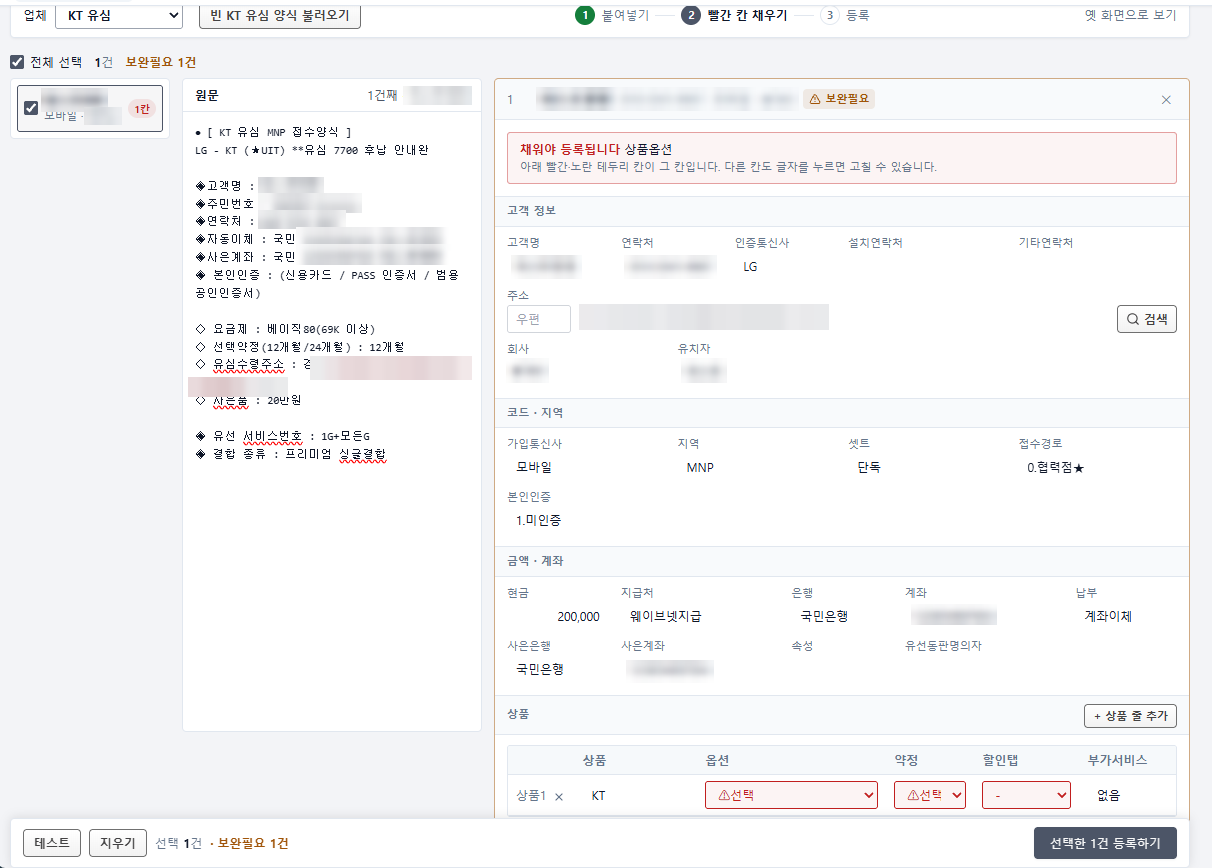
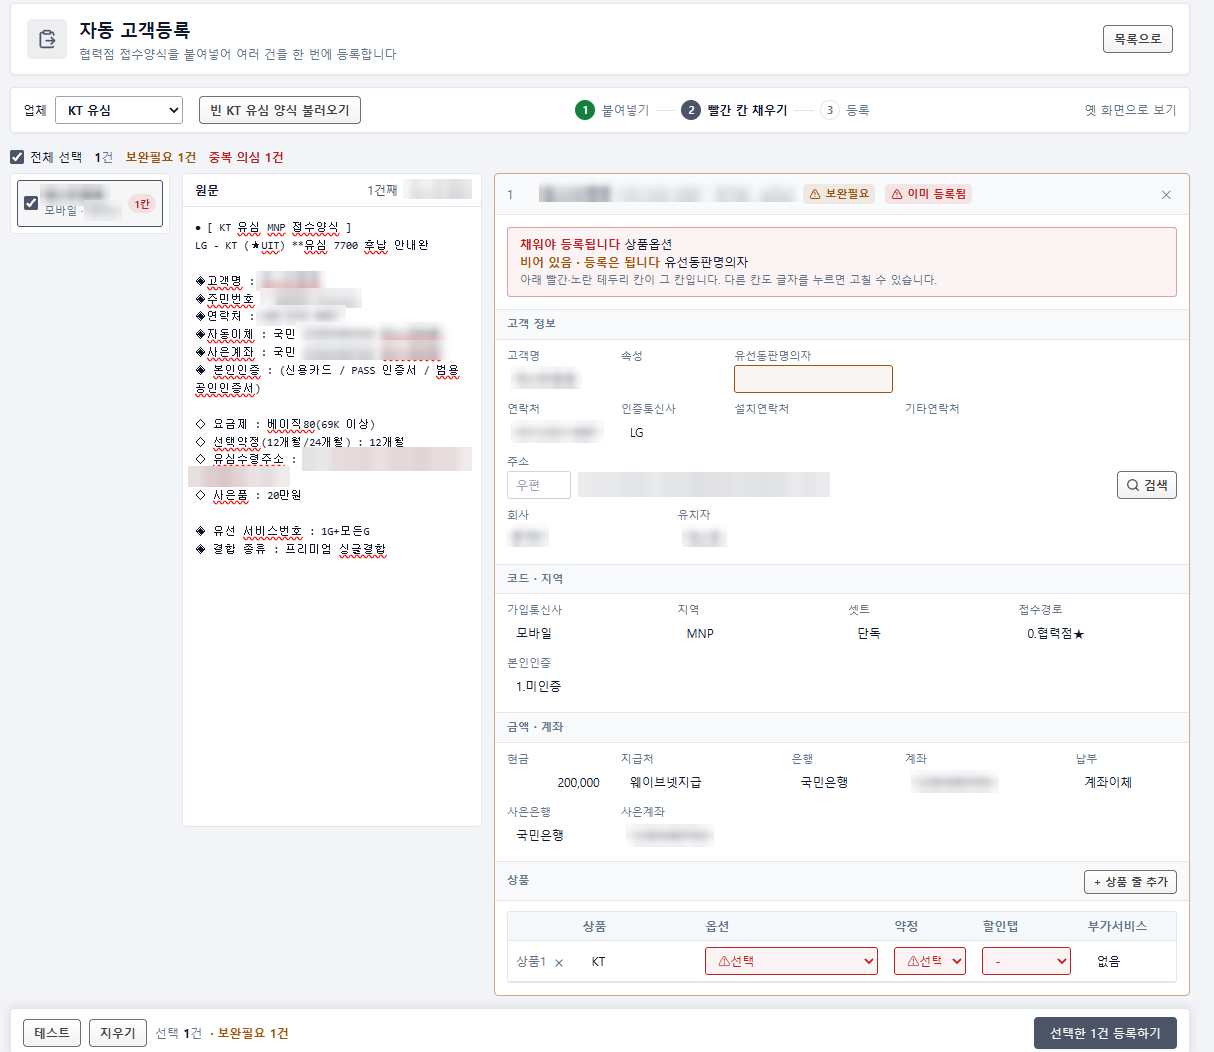
미리보기: 유심 검토 화면 새 캡처 교체, 유선동판 명의자 노란 칸 반영
- 새 캡처(개인정보 가림): 유선동판명의자가 고객명 옆 노란 칸, 채워야 등록됨/비어 있음·등록은 됨 안내
- 2단계 순서·캡처 설명·직접 넣는 칸 표·FAQ, 3단계 점검표 문구를 노란 칸 기준으로

Claude-Session: https://claude.ai/code/session_01U7bNvW3DExLcB2TdmBFNPf

diff --git a/preview/index.html b/preview/index.html
@@ -1199,24 +1199,24 @@ details.qa .a .where:hover{background:var(--brand-50); color:var(--brand-600);}
               <img class="popup" src="../assets/usim/usim-1-company.png" alt="업체 목록 — 유선, 유선+OSS, KT 유심, SKT 유심, SKB 유심, LG 유심" loading="lazy" width="337" height="366" style="max-width:240px"></div></li>
             <li><div>가운데 <b>원문 칸에 양식을 붙여넣습니다</b> <span class="kbd">Ctrl V</span>
               <span class="hint">양식이 없으면 <span class="ui ghost">빈 ○○ 유심 양식 불러오기</span>로 그 통신사 양식을 불러와 바로 채워도 됩니다</span></div></li>
-            <li><div>오른쪽 <b>유선동판 명의자</b>에 <b>유선 고객명</b>을 넣습니다
-              <span class="hint">고객명으로 유선 고객을 찾아 묶으니, 유선 등록 때 쓴 고객명과 <b>똑같이</b> 적어 주세요</span></div></li>
+            <li><div>고객 정보의 <b>유선동판 명의자</b>(고객명 옆 <span class="t" style="background:#fff4e6;color:#b45309;border:1px solid #d9a066">노란 테두리</span> 칸)에 <b>유선 고객명</b>을 넣습니다
+              <span class="hint">비어도 등록은 되지만, 고객명으로 유선 고객을 찾아 묶으니 유선 등록 때 쓴 고객명과 <b>똑같이</b> 꼭 적어 주세요</span></div></li>
             <li><div>상품 줄의 <b>옵션 · 약정 · 할인탭</b>을 고릅니다 <span class="hint">빨간 <b>⚠선택</b>으로 표시됩니다 — 아래 표 참고</span></div></li>
-            <li><div>그 밖에 <b>빨간 테두리 칸</b>이 있으면 채웁니다 <span class="hint">유선과 같은 방식입니다 · <a href="#" data-go="a2">빨간 · 노란 테두리 설명</a></span></div></li>
+            <li><div>그 밖에 <b>빨간 · 노란 테두리 칸</b>이 있으면 채웁니다 <span class="hint">유선과 같은 방식입니다 · <a href="#" data-go="a2">빨간 · 노란 테두리 설명</a></span></div></li>
           </ol>
         </div>
 
         <div class="sec">
-          <h2>이런 화면이에요 <small>KT 유심 — 옵션 · 약정 · 할인탭을 고르기 전</small></h2>
+          <h2>이런 화면이에요 <small>KT 유심 — 유선동판 명의자 · 옵션 · 약정 · 할인탭을 넣기 전</small></h2>
           <div class="shot-card">
             <div class="shot-bar"><i></i><i></i><i></i><span>자동 고객등록 — KT 유심</span><span class="zoom"><svg class="ic"><use href="#i-zoom"/></svg>누르면 크게</span></div>
-            <div class="shot"><img src="../assets/usim/usim-2-review.png" alt="유심 검토 화면 — 업체 KT 유심, 모바일 · MNP · 단독 자동, 채워야 등록됩니다 상품옵션, 유선동판명의자 칸, 옵션 · 약정 · 할인탭 선택" loading="lazy" width="1212" height="868"><span class="pin" style="left:15.3%;top:3.5%">1</span><span class="pin" style="left:51.2%;top:53.7%">2</span><span class="pin" style="left:94.9%;top:17.9%">3</span><span class="pin" style="left:79.2%;top:77.0%">4</span><span class="pin" style="left:56.9%;top:91.6%">5</span></div>
+            <div class="shot"><img src="../assets/usim/usim-2-review.png" alt="유심 검토 화면 — 업체 KT 유심, 채워야 등록됩니다 상품옵션 · 비어 있음 등록은 됩니다 유선동판명의자, 유선동판명의자 노란 칸, 모바일 · MNP · 단독 자동, 옵션 · 약정 · 할인탭 선택" loading="lazy" width="1214" height="1052"><span class="pin" style="left:15.7%;top:10.5%">1</span><span class="pin" style="left:51.1%;top:60.2%">2</span><span class="pin" style="left:94.7%;top:23.3%">3</span><span class="pin" style="left:75.0%;top:36.0%">4</span><span class="pin" style="left:56.8%;top:91.3%">5</span></div>
             <div class="shot-cap">
               <ol class="pins">
                 <li>업체 — <b>통신사 유심</b> 선택</li>
                 <li>자동으로 채워짐 — 가입통신사 <b>모바일</b> · 지역 <b>MNP</b> · 셋트 <b>단독</b></li>
-                <li><b>채워야 등록됩니다</b> — 아직 안 고른 칸을 알려줍니다 <span class="muted">(예: 상품옵션)</span></li>
-                <li><b>유선동판 명의자</b> — 유선 고객명을 직접 입력</li>
+                <li><b>채워야 등록됩니다</b>(빨간 칸) · <b>비어 있음 · 등록은 됩니다</b>(노란 칸)를 함께 알려줍니다 <span class="muted">(예: 상품옵션 / 유선동판명의자)</span></li>
+                <li><b>유선동판 명의자</b> — 노란 칸, 유선 고객명을 직접 입력</li>
                 <li>상품 줄 <b>옵션 · 약정 · 할인탭</b> — 직접 선택</li>
               </ol>
             </div>
@@ -1227,7 +1227,7 @@ details.qa .a .where:hover{background:var(--brand-50); color:var(--brand-600);}
           <h2>직접 넣는 칸</h2>
           <div class="rule">
             <div class="head"><span>칸</span><span>넣을 것</span></div>
-            <div><span class="if"><b>유선동판 명의자</b></span><span class="then">이미 등록한 <b>유선 고객의 고객명</b> <span class="muted">· 빨간 칸이 아니어도 꼭</span></span></div>
+            <div><span class="if"><b>유선동판 명의자</b></span><span class="then">이미 등록한 <b>유선 고객의 고객명</b> <span class="muted">· <span class="t" style="background:#fff4e6;color:#b45309;border:1px solid #d9a066">노란 테두리</span> — 비어도 등록은 되지만 꼭</span></span></div>
             <div><span class="if"><b>옵션</b></span><span class="then">어떤 유선상품과의 동판인지 <span class="v">동판-○○</span> 또는 <span class="v">가족동판</span></span></div>
             <div><span class="if"><b>약정 · 할인탭</b></span><span class="then">통신사마다 다름 — 요금제군 · 결합 · 약정기간 등 <span class="muted">· 양식의 요금제 · 선택약정 · 결합종류를 보고</span></span></div>
           </div>
@@ -1240,7 +1240,7 @@ details.qa .a .where:hover{background:var(--brand-50); color:var(--brand-600);}
             <details class="qa"><summary><span class="q">Q</span>"채워야 등록됩니다 상품옵션"이 떠요.<svg class="ic chev"><use href="#i-down"/></svg></summary>
               <div class="a">상품 줄의 <b>옵션</b>을 아직 고르지 않은 것입니다. 유선상품과 연계된 <b>동판-○○</b> 또는 <b>가족동판</b>을 고르고, 약정 · 할인탭도 함께 골라 주세요.</div></details>
             <details class="qa"><summary><span class="q">Q</span>유선동판 명의자는 왜 적어요?<svg class="ic chev"><use href="#i-down"/></svg></summary>
-              <div class="a">유심은 <b>고객명으로 유선 고객과 일치 여부</b>를 판단합니다. 유선동판 명의자에 유선 등록 때 쓴 고객명을 똑같이 적어야 같은 고객으로 묶입니다.</div></details>
+              <div class="a">유심은 <b>고객명으로 유선 고객과 일치 여부</b>를 판단합니다. 유선동판 명의자에 유선 등록 때 쓴 고객명을 똑같이 적어야 같은 고객으로 묶입니다. 노란 칸이라 비워도 등록은 되지만, 꼭 채워 주세요.</div></details>
             <details class="qa"><summary><span class="q">Q</span>유치자지급 건은 어떻게 해요?<svg class="ic chev"><use href="#i-down"/></svg></summary>
               <div class="a">유심 양식에는 지급처 항목이 없어서 검토 화면에 <b>웨이브넷지급</b>이 기본으로 들어갑니다. 유치자지급이면 검토 화면의 <b>지급처</b>를 눌러 바꾸세요.</div></details>
             <details class="qa"><summary><span class="q">Q</span>약정 · 할인탭은 뭘 골라요?<svg class="ic chev"><use href="#i-down"/></svg></summary>
@@ -1266,7 +1266,7 @@ details.qa .a .where:hover{background:var(--brand-50); color:var(--brand-600);}
           <h2>등록 전 대조</h2>
           <div class="check" data-check>
             <label class="ck"><input type="checkbox"><span><b>유선</b>을 먼저 등록했나요?</span></label>
-            <label class="ck"><input type="checkbox"><span><b>유선동판 명의자</b>가 유선 고객명과 똑같나요?</span></label>
+            <label class="ck"><input type="checkbox"><span><b>유선동판 명의자</b>가 유선 고객명과 똑같나요? <span class="muted">노란 칸 — 비어도 등록되니 꼭 확인</span></span></label>
             <label class="ck"><input type="checkbox"><span><b>옵션</b>이 맞나요? <span class="muted">동판-○○ / 가족동판</span></span></label>
             <label class="ck"><input type="checkbox"><span><b>약정 · 할인탭</b>이 양식의 요금제 · 선택약정 · 결합종류와 맞나요?</span></label>
             <label class="ck"><input type="checkbox"><span><b>현금 · 지급처</b>가 맞나요? <span class="muted">지급처 기본 웨이브넷지급 · 유치자지급이면 눌러서 변경</span></span></label>
